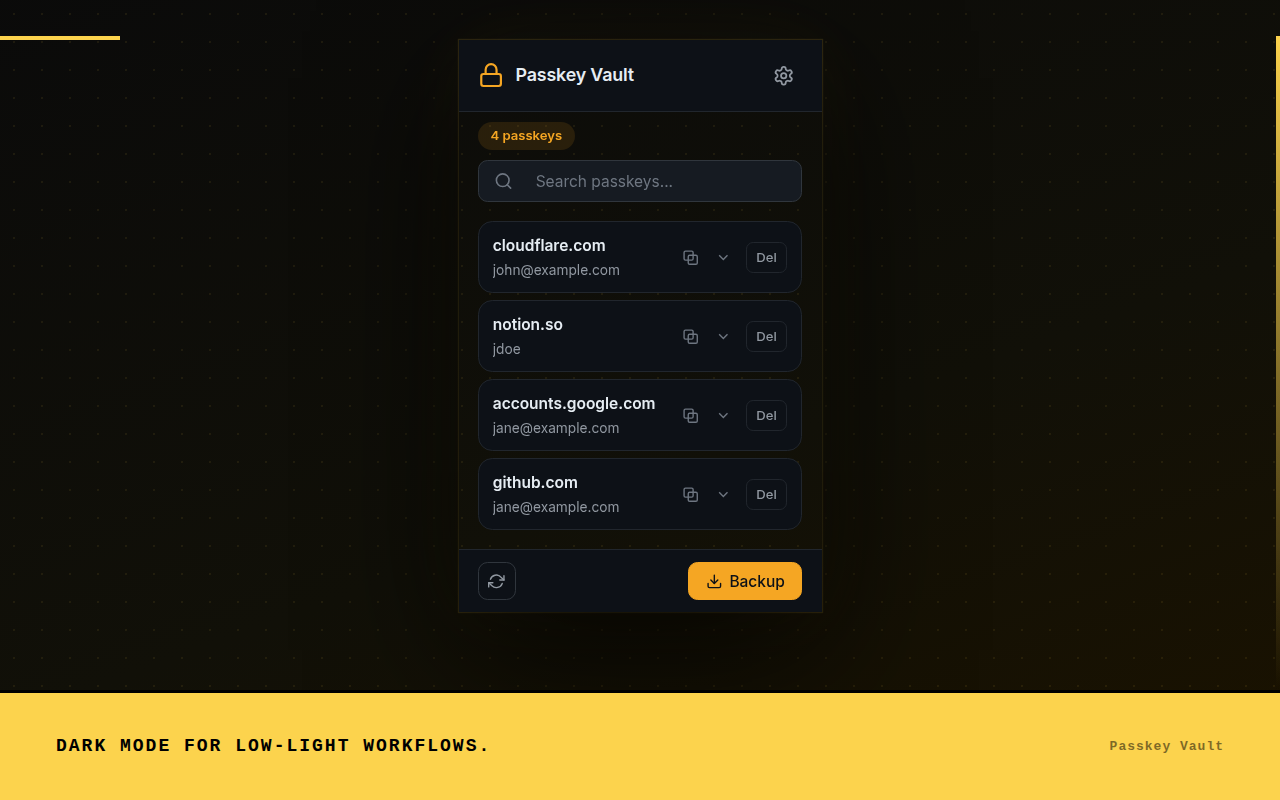
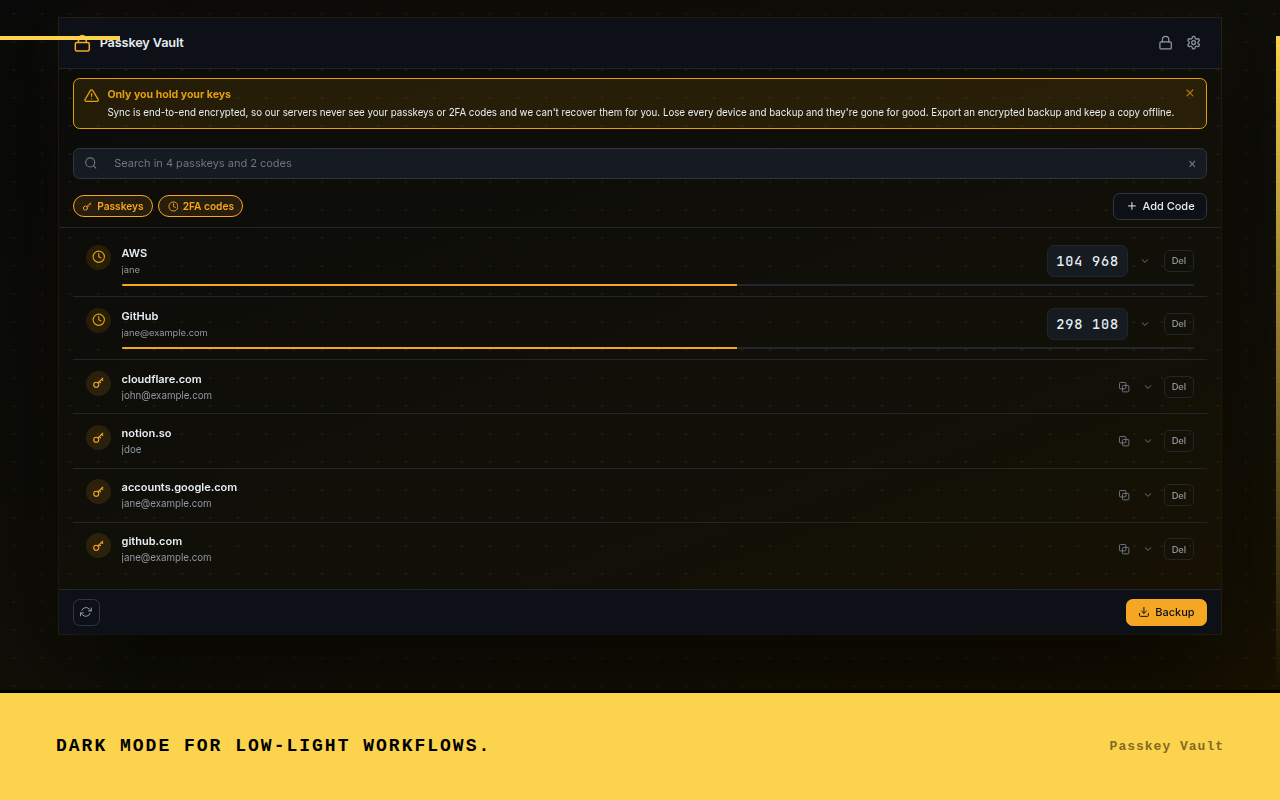
docs: document TOTP/2FA and regenerate screenshots
- README: 2FA, unified vault, and PIN-lock features; updated "how it
  works", CWS listing copy, security notes, and a new 2FA screenshot.
- CWS store descriptions: 2FA + master-PIN bullets across all locales.
- capture-assets: seed mock 2FA codes into the vault shots and add a
  dedicated 2FA-detail capture (cws-08-totp / 14-popup-totp-detail).
- Regenerated docs/cws and docs/readme images.

diff --git a/scripts/capture-assets.js b/scripts/capture-assets.js
@@ -80,6 +80,35 @@ const MOCK_PASSKEYS = [
   },
 ];
 
+// Secrets are arbitrary bytes (base64); the generated code values don't matter
+// for a screenshot, only that they render. Different secrets → different codes.
+const MOCK_TOTP = [
+  {
+    id: 'totp_github_01',
+    type: 'totp',
+    issuer: 'GitHub',
+    account: 'jane@example.com',
+    secretB64: Buffer.from('github-totp-secret-01').toString('base64'),
+    algorithm: 'SHA1',
+    digits: 6,
+    period: 30,
+    counter: 0,
+    createdAt: Date.now() - 1000 * 60 * 60 * 24 * 4,
+  },
+  {
+    id: 'totp_aws_02',
+    type: 'totp',
+    issuer: 'AWS',
+    account: 'jane',
+    secretB64: Buffer.from('aws-totp-secret-key-02').toString('base64'),
+    algorithm: 'SHA1',
+    digits: 6,
+    period: 30,
+    counter: 0,
+    createdAt: Date.now() - 1000 * 60 * 60 * 24 * 2,
+  },
+];
+
 const MODE = process.argv[2] || 'all';
 
 async function launchWithExtension(opts = {}) {
@@ -133,6 +162,12 @@ async function injectPasskeys(page, passkeys) {
   }, passkeys);
 }
 
+async function injectTotp(page, totp) {
+  await page.evaluate((data) => {
+    return new Promise((resolve) => chrome.storage.local.set({ totp_entries: data }, resolve));
+  }, totp);
+}
+
 async function setTheme(page, theme) {
   await page.evaluate((value) => {
     return new Promise((resolve) => chrome.storage.local.set({ ui_theme: value }, resolve));
@@ -164,11 +199,12 @@ async function captureScreenshots() {
     await p.close();
   }
 
-  // 02 — popup with passkeys (list view)
+  // 02 — popup with passkeys + 2FA codes (unified list view)
   {
     const p = await extPage(ctx, id, 'popup.html');
     await setTheme(p, 'light');
     await injectPasskeys(p, MOCK_PASSKEYS);
+    await injectTotp(p, MOCK_TOTP);
     await p.reload();
     await waitReady(p);
     await shotElement(p, '02-popup-list.png');
@@ -191,11 +227,29 @@ async function captureScreenshots() {
     await p.close();
   }
 
+  // 14 — expanded 2FA code detail
+  {
+    const p = await extPage(ctx, id, 'popup.html');
+    await setTheme(p, 'light');
+    await injectPasskeys(p, MOCK_PASSKEYS);
+    await injectTotp(p, MOCK_TOTP);
+    await p.reload();
+    await waitReady(p);
+    const totpExpand = p.locator('.totp-item .expand-btn').first();
+    if (await totpExpand.count()) {
+      await totpExpand.click();
+      await p.waitForTimeout(300);
+    }
+    await shotElement(p, '14-popup-totp-detail.png');
+    await p.close();
+  }
+
   // 12 — popup list, dark theme
   {
     const p = await extPage(ctx, id, 'popup.html');
     await setTheme(p, 'dark');
     await injectPasskeys(p, MOCK_PASSKEYS);
+    await injectTotp(p, MOCK_TOTP);
     await p.reload();
     await waitReady(p);
     await shotElement(p, '12-popup-list-dark.png');
@@ -381,9 +435,10 @@ async function captureCWS() {
   });
   const id = await getExtensionId(ctx);
 
-  // Inject passkeys once via a throwaway page so storage is set for all pages
+  // Inject passkeys + 2FA codes once via a throwaway page so storage is set for all pages
   const setup = await extPage(ctx, id, 'popup.html');
   await injectPasskeys(setup, MOCK_PASSKEYS);
+  await injectTotp(setup, MOCK_TOTP);
   await setup.close();
 
   // Scales container to fill ~90% of CWS_H, centered on CWS_BG canvas.
@@ -398,6 +453,7 @@ async function captureCWS() {
     'cws-05-sync.png': 'SYNC ACROSS DEVICES. NO CLOUD REQUIRED.',
     'cws-06-vault-dark.png': 'DARK MODE FOR LOW-LIGHT WORKFLOWS.',
     'cws-07-settings-dark.png': 'INTERCEPTION CONTROLS, DAY OR NIGHT.',
+    'cws-08-totp.png': 'BUILT-IN 2FA CODES, GENERATED LOCALLY.',
   };
 
   const cwsShot = async (page, name) => {
@@ -541,12 +597,26 @@ async function captureCWS() {
     await setTheme(p, 'light');
     await p.reload();
     await waitReady(p);
-    const btn = p.locator('.expand-btn').first();
+    const btn = p.locator('.passkey-item .expand-btn').first();
     if (await btn.count()) {
       await btn.click();
       await p.waitForTimeout(300);
     }
     await cwsShot(p, 'cws-03-detail.png');
+  }
+
+  // 3b — expanded 2FA code detail (highlights the built-in authenticator)
+  {
+    const p = await extPage(ctx, id, 'popup.html');
+    await setTheme(p, 'light');
+    await p.reload();
+    await waitReady(p);
+    const btn = p.locator('.totp-item .expand-btn').first();
+    if (await btn.count()) {
+      await btn.click();
+      await p.waitForTimeout(300);
+    }
+    await cwsShot(p, 'cws-08-totp.png');
   }
 
   // 4 — import
@@ -677,6 +747,7 @@ function copyReadmeScreenshots() {
     'cws-01-vault.png',
     'cws-02-search.png',
     'cws-03-detail.png',
+    'cws-08-totp.png',
     'cws-04-settings.png',
     'cws-05-sync.png',
     'cws-06-vault-dark.png',

diff --git a/docs/cws/chrome-web-store-descriptions.md b/docs/cws/chrome-web-store-descriptions.md
@@ -6,25 +6,27 @@ Paste-ready listing copy for the locales currently present in `src/_locales`.
 
 ### Summary
 
-Store and use WebAuthn passkeys locally, with backup, sync, and browser fallback controls.
+Store WebAuthn passkeys and 2FA codes locally, with backup, sync, and browser fallback controls.
 
 ### Detailed Description
 
-Passkey Vault is a local-first WebAuthn passkey tool for developers, testers, and advanced users who want direct control over passkey creation, storage, backup, sync, and browser fallback behavior.
+Passkey Vault is a local-first WebAuthn passkey and 2FA tool for developers, testers, and advanced users who want direct control over passkey creation, storage, two-factor codes, backup, sync, and browser fallback behavior.
 
-The extension intercepts WebAuthn registration and sign-in requests, stores passkeys in local browser extension storage, and lets you inspect, search, export, import, and sync credentials without depending on a third-party cloud account.
+The extension intercepts WebAuthn registration and sign-in requests, stores passkeys in local browser extension storage, and lets you inspect, search, export, import, and sync credentials without depending on a third-party cloud account. It also doubles as a TOTP authenticator for your one-time codes.
 
 Key features:
 
 - Local vault for WebAuthn create and get flows
+- Built-in TOTP / 2FA authenticator (RFC 6238) with live codes, clipboard copy, and otpauth:// / QR-image import
+- Optional master PIN that encrypts the vault at rest and locks the popup
 - Browser and OS passkey fallback when no matching vault entry exists
 - Disabled, all-sites, and allowlist interception modes
-- Searchable popup with light and dark themes
-- Backup and import for moving passkeys between environments
+- Unified, searchable popup with per-type filters and light/dark themes
+- Backup and import for moving passkeys and 2FA codes between environments
 - Optional cross-device sync using an encrypted Nostr-based sync chain
 - Developer logging, storage inspection, sync logs, and WebAuthn event tools
 
-Important: Passkey Vault is a research and developer tool. Private key material is stored in local browser extension storage. Treat extension data and exported backups as sensitive credential material.
+Important: Passkey Vault is a research and developer tool. Private keys and 2FA secrets are stored in local browser extension storage. Treat extension data and exported backups as sensitive credential material.
 
 ## French (`fr`)
 
@@ -41,6 +43,8 @@ L'extension intercepte les demandes d'inscription et de connexion WebAuthn, stoc
 Fonctionnalités principales :
 
 - Coffre local pour les flux WebAuthn create et get
+- Authentificateur TOTP / 2FA intégré (RFC 6238) avec codes en direct, copie et import otpauth:// / image QR
+- Code PIN principal optionnel qui chiffre le coffre au repos et verrouille la popup
 - Repli vers l'interface passkey du navigateur et du système lorsqu'aucune entrée correspondante n'existe dans le coffre
 - Modes d'interception désactivé, tous les sites et liste d'autorisation
 - Popup consultable avec thèmes clair et sombre
@@ -65,6 +69,8 @@ La extensión intercepta solicitudes de registro e inicio de sesión WebAuthn, g
 Funciones principales:
 
 - Bóveda local para flujos WebAuthn create y get
+- Autenticador TOTP / 2FA integrado (RFC 6238) con códigos en vivo, copia e importación otpauth:// / imagen QR
+- PIN maestro opcional que cifra la bóveda en reposo y bloquea el popup
 - Reserva hacia la interfaz de passkeys del navegador y del sistema cuando no existe una entrada coincidente en la bóveda
 - Modos de interceptación desactivado, todos los sitios y lista permitida
 - Popup con búsqueda y temas claro y oscuro
@@ -89,6 +95,8 @@ Passkey Vault هي أداة محلية أولاً لمفاتيح مرور WebAut
 الميزات الرئيسية:
 
 - خزنة محلية لتدفقات WebAuthn create و get
+- مصادق TOTP / 2FA مدمج (RFC 6238) مع رموز حيّة ونسخ واستيراد otpauth:// / صورة QR
+- رمز PIN رئيسي اختياري يشفّر الخزنة أثناء السكون ويقفل النافذة المنبثقة
 - الرجوع إلى واجهة مفاتيح المرور في المتصفح ونظام التشغيل عند عدم وجود إدخال مطابق في الخزنة
 - أوضاع اعتراض: معطل، كل المواقع، وقائمة السماح
 - نافذة منبثقة قابلة للبحث مع وضعين فاتح وداكن
@@ -113,6 +121,8 @@ Passkey Vault یک ابزار محلیمحور برای کلیدهای عبو
 قابلیتهای اصلی:
 
 - خزانه محلی برای جریانهای WebAuthn create و get
+- احرازکننده TOTP / 2FA داخلی (RFC 6238) با کدهای زنده، کپی، و وارد کردن otpauth:// / تصویر QR
+- پین اصلی اختیاری که خزانه را در حالت سکون رمزگذاری و پنجره بازشونده را قفل میکند
 - بازگشت به رابط کلید عبور مرورگر و سیستمعامل زمانی که ورودی منطبقی در خزانه وجود ندارد
 - حالتهای رهگیری: غیرفعال، همه سایتها و فهرست مجاز
 - پنجره بازشونده قابل جستجو با پوسته روشن و تاریک
@@ -137,6 +147,8 @@ Passkey Vault — это local-first инструмент для passkey WebAuth
 Ключевые возможности:
 
 - Локальное хранилище для потоков WebAuthn create и get
+- Встроенный TOTP / 2FA аутентификатор (RFC 6238) с живыми кодами, копированием и импортом otpauth:// / QR-изображения
+- Опциональный мастер-PIN, который шифрует хранилище и блокирует popup
 - Fallback к интерфейсу passkey браузера и ОС, если в хранилище нет подходящей записи
 - Режимы перехвата: отключено, все сайты и список разрешенных сайтов
 - Popup с поиском и светлой/темной темой
@@ -161,6 +173,8 @@ Passkey Vault 是一款本地优先的 WebAuthn passkey 工具，面向开发者
 主要功能：
 
 - 用于 WebAuthn create 和 get 流程的本地凭据库
+- 内置 TOTP / 2FA 验证器（RFC 6238），支持实时验证码、复制以及 otpauth:// / 二维码图片导入
+- 可选的主 PIN，可加密本地凭据库并锁定弹出窗口
 - 当凭据库中没有匹配条目时，回退到浏览器和操作系统的 passkey 界面
 - 支持关闭、所有网站和允许列表三种拦截模式
 - 支持搜索的弹出窗口，并提供浅色和深色主题

diff --git a/README.md b/README.md
@@ -8,11 +8,13 @@ A browser extension that intercepts WebAuthn API calls and stores passkeys local
 
 ## Screenshots
 
-<img src="docs/readme/cws-01-vault.png" alt="Your passkeys. Your device. Nobody else." width="640"/>
+<img src="docs/readme/cws-01-vault.png" alt="Passkeys and 2FA codes in one vault. On your device. Nobody else." width="640"/>
 
-<img src="docs/readme/cws-02-search.png" alt="Find any passkey instantly." width="640"/>
+<img src="docs/readme/cws-02-search.png" alt="Find any passkey or code instantly." width="640"/>
 
 <img src="docs/readme/cws-03-detail.png" alt="Full control over every credential." width="640"/>
+
+<img src="docs/readme/cws-08-totp.png" alt="Built-in 2FA codes, generated locally." width="640"/>
 
 <img src="docs/readme/cws-04-settings.png" alt="Developer tools built right in." width="640"/>
 
@@ -28,9 +30,11 @@ A browser extension that intercepts WebAuthn API calls and stores passkeys local
 
 - **WebAuthn interception** — captures `navigator.credentials.create()` and `navigator.credentials.get()` before the browser handles them
 - **Local storage** — passkeys stay in browser local storage, no external server
-- **TOTP / 2FA codes** — RFC 6238 generator with live codes, clipboard copy, otpauth:// import, included in backup and sync
+- **TOTP / 2FA codes** — built-in RFC 6238 / 4226 authenticator with live codes, clipboard copy, and `otpauth://` import (paste a URI, paste a QR screenshot, or upload a QR image — decoded locally, no camera)
+- **Unified vault** — passkeys and 2FA codes share one searchable list with per-type filters; each entry expands to show its details
+- **Vault lock** — optional 4–12 digit master PIN encrypts the vault at rest and locks the popup; set, change, or remove it any time
 - **Backup & import** — export all passkeys (including private keys) and TOTP entries as a JSON file, import on another device
-- **Cross-device sync** — optional Nostr-based sync chain using a BIP-39 seed phrase
+- **Cross-device sync** — optional Nostr-based sync chain using a BIP-39 seed phrase; passkeys and 2FA codes sync end-to-end encrypted
 - **Emergency access** — standalone recovery page for vault management without the extension popup
 - **Chrome + Firefox** — single codebase, separate manifests
 
@@ -76,7 +80,8 @@ npm run build:all      # Both
 2. On `credentials.create()`, the background script generates an ECDSA P-256 key pair, creates a valid attestation response, and stores the passkey
 3. On `credentials.get()`, it signs the challenge with the stored private key using proper CBOR encoding
 4. The popup reads directly from `chrome.storage.local` — no background message passing for display
-5. TOTP codes are derived locally from each entry's secret using HMAC-SHA1/256/512; the popup caches the current code and refreshes it once per second when the 2FA tab is open
+5. TOTP codes are derived locally from each entry's secret using HMAC-SHA1/256/512; the popup caches the current code and refreshes it once per second while the vault is open
+6. With a master PIN set, the vault is also written as an AES-GCM encrypted copy and the popup gates behind a lock screen; removing the PIN drops the encrypted copy
 
 ---
 
@@ -128,31 +133,32 @@ The extension intercepts WebAuthn credential creation and sign-in requests, stor
 Key features:
 
 - Local passkey vault for WebAuthn create and get flows
+- Built-in TOTP / 2FA authenticator (RFC 6238) with live codes, clipboard copy, and otpauth:// / QR-image import
+- Optional master PIN that encrypts the vault at rest and locks the popup
 - Default passthrough to the browser and OS passkey UI when no matching passkey is stored
 - Configurable interception rules for disabled, all-sites, and allowlist modes
-- Searchable popup with light and dark themes
-- Backup and import workflows for moving passkeys between environments
+- Unified, searchable popup with per-type filters and light/dark themes
+- Backup and import workflows for moving passkeys and 2FA codes between environments
 - Optional cross-device sync using a Nostr-based sync chain
 - Developer tools for console logging, storage inspection, sync protocol logs, and WebAuthn event logs
 
 Important: Passkey Vault is intended as a research and developer tool. Private key material is stored in local browser extension storage. Treat extension data and exported backups as sensitive credential material.
 
-What's new in `v0.7.0`:
+What's new:
 
-- Added native browser fallback passthrough for sites without a stored passkey
-- Added interception controls for blocking or allowing browser fallback
-- Refreshed the popup, settings, import, sync, and emergency access UI
-- Added light and dark theme screenshots for the Chrome Web Store listing
-- Standardized the product name as Passkey Vault
+- Added a built-in TOTP / 2FA authenticator with live codes, clipboard copy, and otpauth:// / QR-image import
+- Merged passkeys and 2FA codes into one searchable vault with per-type filters and expandable details
+- Added an optional master PIN that encrypts the vault at rest and locks the popup
+- Earlier: native browser fallback passthrough, interception controls, refreshed UI, and light/dark themes
 
 **Screenshots**
 
 Use up to five CWS screenshots in this order:
 
 1. `docs/cws/cws-01-vault.png`
-2. `docs/cws/cws-02-search.png`
-3. `docs/cws/cws-03-detail.png`
-4. `docs/cws/cws-07-settings-dark.png`
+2. `docs/cws/cws-08-totp.png`
+3. `docs/cws/cws-02-search.png`
+4. `docs/cws/cws-03-detail.png`
 5. `docs/cws/cws-05-sync.png`
 
 Additional generated screenshots are available in `docs/cws/` if the dashboard accepts more than five.
@@ -215,8 +221,9 @@ src/
 
 ## Security
 
-- Private keys are stored unencrypted in `chrome.storage.local`
-- Export files contain private keys — treat them like passwords
+- Passkeys and TOTP secrets live in `chrome.storage.local`. Setting a master PIN adds an AES-GCM encrypted copy and a lock screen, but a raw copy is kept for display — treat the profile as sensitive regardless
+- Export files contain private keys and TOTP secrets — treat them like passwords
+- Sync payloads are end-to-end encrypted; relays never see plaintext
 - This is a research/developer tool, not a production credential manager
 
 ---
